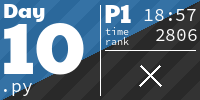
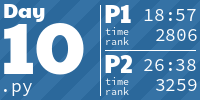
Solution 2024 day 11

diff --git a/2024/11.py b/2024/11.py
@@ -2,46 +2,40 @@ print(chr(27)+'[2j')
 print('\033c')
 f = open('11.test', 'r')
 #f = open('11.test2', 'r')
-f = open('11.input', 'r')
+#f = open('11.input', 'r')
 lines = [x.strip() for x in f.readlines()]
 
-stones = []
+stones: list[str] = []
 for line in lines:
     for stone in line.split():
         stones.append(stone)
-print('stones', stones)
 
 cache = {}
-def split(stone: str):
-    if stone in cache:
-        return cache[stone]
-    new_stones = []
+def split(stone: str, level: int) -> int:
+    if (stone, level) in cache:
+        return cache[(stone, level)]
+    if level == 0:
+        cache[(stone, level)] = 1
+        return 1
+
+    next_level = level - 1
+    res = 0
     if stone == '0':
-        new_stones.append('1')
+        res = split('1', next_level)
     elif len(stone) % 2 == 0:
         half = len(stone)//2
-        left = stone[:half]
-        right = stone[half:]
-        new_stones.append(left)
-        new_stones.append(right)
+        left = str(int(stone[:half]))
+        right = str(int(stone[half:]))
+        res = split(left, next_level) + split(right, next_level)
     else:
         new_s = int(stone) * 2024
-        new_stones.append(str(new_s))
+        res = split(str(new_s), next_level)
 
-    cache[stone] = new_stones
-    return new_stones
+    cache[(stone, level)] = res
+    return res
 
-rounds = 6
-rounds = 25 
+rounds = 25
+print("Solution part1: %d" % (sum([split(s,rounds) for s in stones])))
+
 rounds = 75 
-for i in range(rounds):
-    new_stones = []
-    for s in stones:
-        new_stones.extend(split(s))
-    stones = new_stones
-
-    #line = ' '.join([str(s) for s in stones])
-    #print("Blink %d:" % (i+1), line)
-    #print('-------')
-    print("Blink %d: %d" % (i+1, len(new_stones)))
-
+print("Solution part2: %d" % (sum([split(s,rounds) for s in stones])))

diff --git a/README.md b/README.md
@@ -2,7 +2,7 @@
 
 <!-- AOC TILES BEGIN -->
 <h1 align="center">
-  2024 - 19 ⭐
+  2024 - 22 ⭐
 </h1>
 <a href="2024/01.ex">
   <img src=".aoc_tiles/tiles/2024/01.png" width="161px">
@@ -33,6 +33,9 @@
 </a>
 <a href="2024/10.py">
   <img src=".aoc_tiles/tiles/2024/10.png" width="161px">
+</a>
+<a href="2024/11.py">
+  <img src=".aoc_tiles/tiles/2024/11.png" width="161px">
 </a>
 <h1 align="center">
   2023 - 50 ⭐
